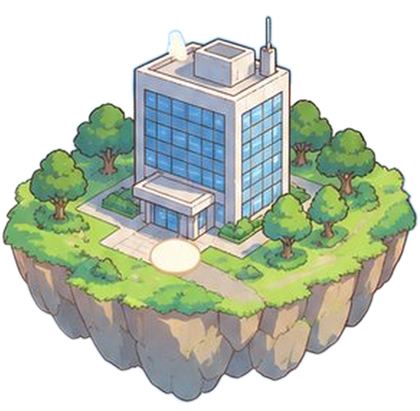
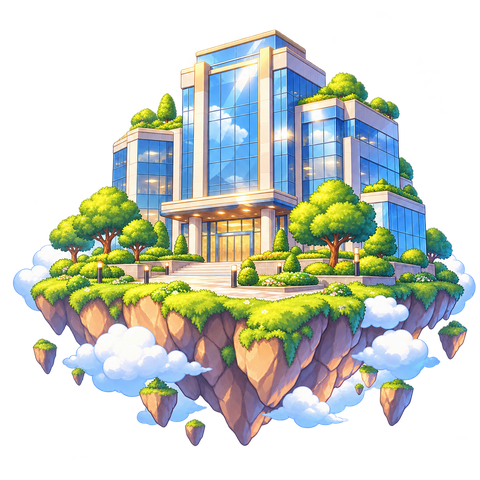
chore: 내부 기능 개선, v2.47.5

diff --git a/game.js b/game.js
@@ -1745,6 +1745,7 @@
   // 원카드 외치기 — 본인이면 안전, 남이면 본인이 1장 먹음
   function ocCall(s, caller, now) {
       var o = s.one; if (!o || s.winner >= 0) return;
+      if (!s.players[caller] || s.players[caller].out) return; // 파산한 사람은 원카드·저격 불가
       if (caller === o.p) ocLog(s, '☝ ' + s.players[o.p].name + ' 원카드!');
       else { var p = s.players[o.p], c = ocDraw1(s); if (c) p.hand.push(c); ocLog(s, '🚨 ' + s.players[caller].name + ' 원카드 저격! ' + p.name + ' +1장'); }
       s.one = null; s.ver++;
@@ -1777,7 +1778,7 @@
       if (s.winner >= 0) return;
       if (s.one) {
           var best = -1, bt = Infinity;
-          for (var k in s.one.ai) if (s.one.ai[k] <= now && s.one.ai[k] < bt) { bt = s.one.ai[k]; best = +k; }
+          for (var k in s.one.ai) if (!s.players[+k].out && s.one.ai[k] <= now && s.one.ai[k] < bt) { bt = s.one.ai[k]; best = +k; }
           if (best >= 0) ocCall(s, best, now);
           else if (now > s.one.until) { s.one = null; s.ver++; }
       }
@@ -1824,10 +1825,12 @@
   async function ocLobbyLoad(){
     try{ const j=await gas({action:'ocLobby'}); if(oc&&oc.mode==='lobby'&&j.success) ocLobbyRender(j.rooms||[]); }catch(e){}
   }
+  // 화면을 통째로 다시 그리면 누르는 사이 버튼이 새로 바뀌어 클릭이 씹힘 — 내용이 같으면 그대로 둠
+  function ocSetBody(html){ const b=el('gmBody'); if(oc&&oc.bodyHtml===html&&b.dataset.oc==='1') return; b.innerHTML=html; b.dataset.oc='1'; if(oc) oc.bodyHtml=html; lockBodySize(); }
   function ocHead(info){ return `<div class="gm-st-head"><b>${ic('skill-onecard.png')}원카드</b><span>${info||''}</span><button type="button" class="gm-exit" tabindex="-1" onmousedown="event.preventDefault()" onclick="gmExitAsk('onecard')">✕ 나가기</button></div>`; }
   function ocLobbyRender(rooms){
     if(!oc||oc.mode!=='lobby') return;
-    el('gmBody').innerHTML=ocHead(`승리 <b>${(acc.ocWins||0).toLocaleString()}</b>회`)+`
+    ocSetBody(ocHead(`승리 <b>${(acc.ocWins||0).toLocaleString()}</b>회`)+`
       <div class="oc-lobby">
         <div class="oc-modes">
           <button type="button" class="oc-mode solo" onclick="ocStartSolo()"><b>🤖 혼자 하기</b><small>컴퓨터 3명과 바로 시작</small></button>
@@ -1838,8 +1841,7 @@
           <span class="oc-room-t"><b>${escHtml(r.title)}</b><small>${r.seats.length}/4명 · 방장 ${escHtml(r.host)}</small></span>
           <button type="button" class="gm-btn primary" onclick="ocJoinRoom('${r.id}')">참가</button></div>`).join(''):'<div class="gm-st-info">지금 열린 방이 없어요. 방을 만들어 동료를 불러보세요!</div>'}</div>
         <div class="oc-rules"><b>규칙</b> 같은 무늬나 숫자 내기 · 공격 2(+2) A(+3) 흑백조커(+5) 컬러조커(+7)는 같거나 센 공격으로 막기 · J 건너뛰기 · Q 방향 바꾸기 · K 한 번 더 · 7 무늬 바꾸기 · 1장 남으면 <b>원카드!</b> · 20장이면 파산</div>
-      </div>`;
-    lockBodySize();
+      </div>`);
   }
   // ---- 혼자 하기
   window.ocStartSolo=function(){
@@ -1878,17 +1880,18 @@
   function ocApply(j){
     lastInput=Date.now(); // 같이 하기 중 다른 사람 차례를 기다리는 동안 창이 흐려지거나 내려가지 않게
     if(j.room) oc.info=j.room;
-    if(j.view){ oc.view=j.view; oc.mode='multi'; ocGameRender(); } else ocRoomRender();
+    if(j.view){ if(oc.view&&j.view.ver<oc.view.ver) return; // 내가 낸 뒤에 도착한 옛 상태는 무시(카드가 손에 되돌아온 것처럼 보이는 문제)
+      oc.view=j.view; oc.mode='multi'; ocGameRender(); } else ocRoomRender();
   }
   function ocRoomRender(){
     const r=oc.info||{seats:[]}, host=oc.seat===0;
-    el('gmBody').innerHTML=ocHead('대기실')+`
+    ocSetBody(ocHead('대기실')+`
       <div class="oc-lobby"><div class="gm-adm-sec">${escHtml(r.title||'방')} <small>${r.seats.length}/4명</small></div>
       <div class="oc-waits">${[0,1,2,3].map(i=>{ const x=r.seats[i];
         return x?`<div class="oc-wait">${ocFaceImg(x.face,'oc-face')}<b>${escHtml(x.nick)}</b><small>${i===0?'방장':'참가'}${i===oc.seat?' · 나':''}</small></div>`
                 :`<div class="oc-wait empty"><span class="gm-face-ph oc-face">🤖</span><b>빈자리</b><small>시작하면 컴퓨터</small></div>`; }).join('')}</div>
       ${host?`<button type="button" class="gm-btn primary" onclick="ocStartRoom()">게임 시작</button>`:`<div class="gm-st-info">방장이 시작하길 기다리는 중…</div>`}
-      <div class="gm-st-info">이 방은 다른 사람의 원카드 화면 "열린 방"에 보여요</div></div>`;
+      <div class="gm-st-info">이 방은 다른 사람의 원카드 화면 "열린 방"에 보여요</div></div>`);
     lockBodySize();
   }
   window.ocStartRoom=async function(){
@@ -1901,7 +1904,7 @@
     if(!oc) return;
     const v=ocCurView(); if(!v) return;
     const me=v.me, n=v.players.length;
-    const sig=v.ver+'|'+(v.one?v.one.p:'-')+'|'+(oc.pick||'');
+    const sig=v.ver+'|'+(v.one?v.one.p:'-')+'|'+(oc.pick||'')+'|'+(oc.sending?oc.sending.action:'');
     if(!force&&sig===oc.lastVer){ ocLiveBits(v); return; }
     oc.lastVer=sig;
     const pos=['bottom','left','top','right'];
@@ -1913,27 +1916,31 @@
     const myTurn=v.turn===me&&v.winner<0, hand=v.hand||[];
     const can=c=>myTurn&&ocCanPlay({pile:[top],suit:v.suit,attack:v.attack,atkPow:v.atkPow},c); // 낼 수 있는 카드 강조(최종 판정은 엔진·서버)
     const w=Math.max(10,Math.min(42,(340-40)/Math.max(1,hand.length-1)));
-    el('gmBody').innerHTML=ocHead(oc.mode==='solo'?'혼자 하기':'같이 하기')+`
-      <div class="oc-table">${seats}
+    const body=el('gmBody');
+    if(force||!el('ocTable')||body.dataset.oc!=='g'){
+      body.innerHTML=ocHead(oc.mode==='solo'?'혼자 하기':'같이 하기')+`<div class="oc-table" id="ocTable"></div><div class="oc-log" id="ocLog"></div><div class="oc-hand" id="ocHand"></div>
+        <div class="oc-btns"><button type="button" class="gm-btn oc-take" id="ocTakeBtn" onclick="ocUiTake()">카드 먹기</button><button type="button" class="gm-btn oc-onebtn" id="ocOneBtn" onclick="ocUiCall()">원카드!</button></div><div id="ocPickBox"></div>`;
+      body.dataset.oc='g'; oc.bodyHtml=null; oc.handSig=null; lockBodySize();
+    }
+    el('ocTable').innerHTML=`${seats}
         <div class="oc-center">
           <div class="oc-deck">${ocCardHtml('BACK')}<small>${v.deck}</small></div>
-          <div class="oc-pile">${ocCardHtml(top)}</div>
+          <div class="oc-pile${top!==oc.lastTop?' new':''}">${ocCardHtml(top)}</div>
           <div class="oc-state">
             <span class="oc-dir">${v.dir>0?'↻':'↺'}</span>
-            ${suitChanged?`<span class="oc-suit ${v.suit==='H'||v.suit==='D'?'red':''}">${OC_SUIT_NAME[v.suit]}</span>`:''}
+            ${suitChanged?`<span class="oc-suit ${v.suit==='H'||v.suit==='D'?'red':''}${v.suit==='*'?' any':''}">${OC_SUIT_NAME[v.suit]}</span>`:''}
             ${v.attack?`<span class="oc-atk">+${v.attack}</span>`:''}
           </div>
         </div>
-        <div class="oc-one" id="ocOne"></div>
-      </div>
-      <div class="oc-log" id="ocLog">${escHtml(v.log[v.log.length-1]||'')}</div>
-      <div class="oc-hand${myTurn?' my':''}">${hand.map((c,i)=>`<span class="oc-slot" style="width:${i===hand.length-1?42:w}px">${ocCardHtml(c,{btn:true,cls:can(c)?' ok':''})}</span>`).join('')}</div>
-      <div class="oc-btns">
-        <button type="button" class="gm-btn oc-take" ${myTurn?'':'disabled'} onclick="ocUiTake()">${v.attack?`💢 ${v.attack}장 먹기`:'카드 먹기'}</button>
-        <button type="button" class="gm-btn oc-onebtn" id="ocOneBtn" onclick="ocUiCall()">원카드!</button>
-      </div>
-      ${oc.pick?`<div class="oc-pick"><b>무늬를 고르세요</b><div>${OC_SUITS.map(su=>`<button type="button" class="${su==='H'||su==='D'?'red':''}" onclick="ocUiSuit('${su}')">${OC_SUIT_NAME[su]}</button>`).join('')}</div></div>`:''}`;
-    lockBodySize();
+        <div class="oc-one" id="ocOne"></div>`;
+    oc.lastTop=top;
+    el('ocLog').textContent=v.log[v.log.length-1]||'';
+    const sending=oc.sending, handEl=el('ocHand'), handSig=myTurn+'|'+(sending?sending.action+sending.card:'')+'|'+hand.map(c=>c+(can(c)?'+':'')).join(',');
+    handEl.classList.toggle('my',myTurn&&!sending); handEl.classList.toggle('busy',!!sending);
+    if(oc.handSig!==handSig){ oc.handSig=handSig; handEl.innerHTML=hand.map((c,i)=>`<span class="oc-slot" style="width:${i===hand.length-1?42:w}px">${ocCardHtml(c,{btn:true,cls:(can(c)?' ok':'')+(sending&&sending.card===c?' sending':'')})}</span>`).join(''); }
+    if(sending) el('ocLog').textContent=sending.action==='ocPlay'?'카드 내는 중…':sending.action==='ocTake'?'카드 먹는 중…':'원카드 외치는 중…';
+    const tb=el('ocTakeBtn'); tb.disabled=!myTurn||v.players[me].out||!!sending; tb.classList.toggle('sending',!!(sending&&sending.action==='ocTake')); tb.textContent=v.attack?`💢 ${v.attack}장 먹기`:'카드 먹기';
+    el('ocPickBox').innerHTML=oc.pick?`<div class="oc-pick"><b>무늬를 고르세요</b><div>${OC_SUITS.map(su=>`<button type="button" class="${su==='H'||su==='D'?'red':''}" onclick="ocUiSuit('${su}')">${OC_SUIT_NAME[su]}</button>`).join('')}</div></div>`:'';
     ocLiveBits(v);
     if(v.winner>=0) ocFinish(v);
   }
@@ -1941,21 +1948,35 @@
   function ocLiveBits(v){
     const b=el('ocOneBtn'), one=el('ocOne'); if(!b) return;
     const me=v.me, o=v.one;
-    b.disabled=!o||v.winner>=0;
+    const out=!v.players[me]||v.players[me].out; // 파산하면 버튼 자체를 끔
+    b.disabled=!o||v.winner>=0||out;
     b.textContent=o?(o.p===me?'☝ 원카드!':'🚨 원카드 저격!'):'원카드!';
     b.classList.toggle('hot',!!o);
     if(one) one.innerHTML=o?`<b>${escHtml(v.players[o.p].name)}</b> 1장!`:'';
     const t=el('ocLog');
-    if(t&&oc.mode==='multi'&&v.turn===me&&v.winner<0) t.textContent=`내 차례 · ${Math.ceil(v.turnLeft/1000)}초 안에 내거나 먹으세요`;
+    if(t&&oc.mode==='multi'&&v.turn===me&&v.winner<0&&!oc.sending) t.textContent=`내 차례 · ${Math.ceil(v.turnLeft/1000)}초 안에 내거나 먹으세요`;
   }
+  // 같이 하기는 서버 응답까지 1~2초 걸림 — 그동안 낸 카드를 띄워 '보내는 중'으로 보여 주고 다른 입력은 막음(여러 번 누르기 방지)
   async function ocSend(action,extra){
     if(oc.mode==='solo') return;
-    try{ const j=await gas(Object.assign({action,room:oc.room,key:oc.key},extra||{})); if(!j.success&&j.error) toast(`⚠ ${j.error}`,1800); if(j.view){ oc.view=j.view; oc.lastVer=-1; ocGameRender(); } }
-    catch(e){ toast('⚠ 서버에 연결하지 못했습니다',2000); }
+    const me=oc;
+    if(action==='ocCall'){ // 원카드 외치기는 빠를수록 좋아서 막지 않음
+      try{ const j=await gas({action,room:me.room,key:me.key}); if(oc===me&&j.view&&!(me.view&&j.view.ver<me.view.ver)){ me.view=j.view; ocGameRender(); } }catch(e){}
+      return; }
+    if(me.sending) return;
+    me.sending={action,card:(extra&&extra.card)||null}; ocGameRender();
+    const guard=setTimeout(()=>{ if(me.sending){ me.sending=null; if(oc===me) ocGameRender(); } },10000);
+    try{ const j=await gas(Object.assign({action,room:me.room,key:me.key},extra||{})); if(oc!==me) return;
+      if(!j.success&&j.error) toast(`⚠ ${j.error}`,1800);
+      if(j.view&&!(me.view&&j.view.ver<me.view.ver)) me.view=j.view; }
+    catch(e){ if(oc===me) toast('⚠ 서버에 연결하지 못했습니다',2000); }
+    finally{ clearTimeout(guard); me.sending=null; if(oc===me&&!me.done) ocGameRender(); }
   }
   window.ocUiPlay=function(c){
     lastInput=Date.now();
-    const v=ocCurView(); if(!v||v.turn!==v.me||v.winner>=0) return;
+    const v=ocCurView(); if(!v||v.turn!==v.me||v.winner>=0||oc.sending) return;
+    if(!(v.hand||[]).includes(c)) return;
+    if(!ocCanPlay({pile:[v.top],suit:v.suit,attack:v.attack,atkPow:v.atkPow},c)){ toast(v.attack?`⚠ +${v.attack} 공격은 같거나 센 공격 카드로만 막을 수 있어요`:'⚠ 지금은 낼 수 없는 카드예요',1500); return; } // 서버까지 안 가고 바로 알려 줌
     if(ocRank(c)==='7'&&!v.attack){ oc.pick=c; ocGameRender(true); return; } // 7은 무늬 고르기
     ocDoPlay(c,'');
   };
@@ -1964,7 +1985,7 @@
     if(oc.mode==='solo'){ const err=ocPlay(oc.s,oc.me,c,su,Date.now()); if(err) toast(`⚠ ${err}`,1500); ocGameRender(true); }
     else ocSend('ocPlay',{card:c,suit:su});
   }
-  window.ocUiTake=function(){ lastInput=Date.now(); if(oc.mode==='solo'){ ocTake(oc.s,oc.me,Date.now()); ocGameRender(true); } else ocSend('ocTake'); };
+  window.ocUiTake=function(){ lastInput=Date.now(); if(oc.sending) return; if(oc.mode==='solo'){ ocTake(oc.s,oc.me,Date.now()); ocGameRender(true); } else ocSend('ocTake'); };
   window.ocUiCall=function(){ lastInput=Date.now(); if(oc.mode==='solo'){ ocCall(oc.s,oc.me,Date.now()); ocGameRender(true); } else ocSend('ocCall'); };
   // 끝 — 순위·남은 카드로 점수 → 경험치·추천서
   function ocFinish(v){
@@ -1988,7 +2009,7 @@
     if(rank===1) fxPop('fx-confetti',{cls:'big',ms:1500,x:50});
   }
   window.gmShowOneCard=gmShowOneCard;
-  if(window.__GM_TEST) window.__oc=()=>oc; // 자동 테스트에서만
+  if(window.__GM_TEST){ window.__oc=()=>oc; window.__ocEng={ocView,ocPlay,ocTake,ocCanPlay}; } // 자동 테스트에서만
   window.gmOneCardExit=function(){
     if(oc&&(oc.mode==='room'||oc.mode==='multi')&&!oc.done) gas({action:'ocLeave',room:oc.room,key:oc.key}).catch(()=>{});
     ocStop(); oc=null; gmShowWorld();
@@ -2010,7 +2031,7 @@
     const W=box.clientWidth, H=box.clientHeight, cx=W/2, cy=H*0.5, unit=Math.min(W,H*0.85);
     const svg=box.querySelector('.gm-orbits'); svg.setAttribute('viewBox',`0 0 ${W} ${H}`);
     svg.innerHTML=WORLD_ORBITS.map(([rx,ry],i)=>`<ellipse class="o${i}" cx="${cx}" cy="${cy}" rx="${rx*W}" ry="${ry*H}"/>`).join('');
-    const hq=box.querySelector('.gm-hq'), hw=Math.round(unit*0.31); hq.style.width=hw+'px'; hq.style.left=(cx-hw/2)+'px'; hq.style.top=(cy-hw*0.5)+'px';
+    const hq=box.querySelector('.gm-hq'), hw=Math.round(unit*0.36); hq.style.width=hw+'px'; hq.style.left=(cx-hw/2)+'px'; hq.style.top=(cy-hw*0.5)+'px';
     box.querySelectorAll('.gm-isle').forEach(b=>{ const w=WORLD[+b.dataset.i], [rx,ry]=WORLD_ORBITS[w.orb[0]], t=w.orb[1]*Math.PI/180;
       const x=cx+Math.cos(t)*rx*W, y=cy+Math.sin(t)*ry*H, iw=Math.round(unit*0.27*(w.size||1));
       b.style.width=iw+'px'; b.style.left=(x-iw/2)+'px'; b.style.top=(y-iw*(w.ar||1)*0.5)+'px'; });

diff --git a/style.css b/style.css
@@ -2102,7 +2102,8 @@ body.checklist-page-active { padding-bottom:46px; }
 .oc-fan i:first-child { margin-left:0; }
 .oc-center { position:absolute; left:50%; top:46%; transform:translate(-50%,-50%); display:flex; align-items:center; gap:12px; }
 .oc-deck { position:relative; } .oc-deck small { position:absolute; bottom:-14px; left:0; right:0; text-align:center; color:#fff; font-size:10px; opacity:0.8; }
-.oc-pile .oc-card { transform:rotate(-4deg) scale(1.08); box-shadow:0 4px 10px rgba(0,0,0,0.5); animation:ocDrop 0.25s ease-out; }
+.oc-pile .oc-card { transform:rotate(-4deg) scale(1.08); box-shadow:0 4px 10px rgba(0,0,0,0.5); }
+.oc-pile.new .oc-card { animation:ocDrop 0.25s ease-out; }
 @keyframes ocDrop { from { transform:translateY(-30px) rotate(-14deg) scale(1.2); opacity:0; } }
 .oc-state { display:flex; flex-direction:column; align-items:center; gap:4px; }
 .oc-dir { font-size:22px; color:rgba(255,255,255,0.75); line-height:1; }
@@ -2160,3 +2161,11 @@ body.checklist-page-active { padding-bottom:46px; }
 .gm-hq .gm-isle-label { margin-top:-12px; background:rgba(255,255,255,0.92); box-shadow:0 2px 6px rgba(0,40,80,0.2); }
 .gm-hq .gm-isle-label b { font-size:11.5px; color:#222; } .gm-hq .gm-isle-label small { font-size:10px; }
 .gm-world .gm-isle { z-index:2; }
+.oc-suit { white-space:nowrap; }
+.oc-suit.any { font-size:11px; font-weight:800; padding:4px 8px; line-height:1.2; }
+.oc-onebtn:disabled { opacity:0.45; cursor:default; }
+/* 같이 하기 — 서버로 보내는 중 */
+.oc-hand.busy button.oc-card { opacity:0.4; cursor:progress; pointer-events:none; }
+.oc-hand.busy button.oc-card.sending { opacity:1; transform:translateY(-22px) scale(1.06); box-shadow:0 0 0 2px #69f0ae, 0 0 16px rgba(105,240,174,0.8); animation:ocSending 0.6s ease-in-out infinite alternate; }
+@keyframes ocSending { to { transform:translateY(-26px) scale(1.06); box-shadow:0 0 0 2px #69f0ae, 0 0 24px rgba(105,240,174,1); } }
+.oc-take.sending { cursor:progress; }

diff --git a/googleDrive.js b/googleDrive.js
@@ -2057,6 +2057,7 @@ function ocTake(s, pi, now) {
 // 원카드 외치기 — 본인이면 안전, 남이면 본인이 1장 먹음
 function ocCall(s, caller, now) {
     var o = s.one; if (!o || s.winner >= 0) return;
+    if (!s.players[caller] || s.players[caller].out) return; // 파산한 사람은 원카드·저격 불가
     if (caller === o.p) ocLog(s, '☝ ' + s.players[o.p].name + ' 원카드!');
     else { var p = s.players[o.p], c = ocDraw1(s); if (c) p.hand.push(c); ocLog(s, '🚨 ' + s.players[caller].name + ' 원카드 저격! ' + p.name + ' +1장'); }
     s.one = null; s.ver++;
@@ -2089,7 +2090,7 @@ function ocTick(s, now, timeoutMs) {
     if (s.winner >= 0) return;
     if (s.one) {
         var best = -1, bt = Infinity;
-        for (var k in s.one.ai) if (s.one.ai[k] <= now && s.one.ai[k] < bt) { bt = s.one.ai[k]; best = +k; }
+        for (var k in s.one.ai) if (!s.players[+k].out && s.one.ai[k] <= now && s.one.ai[k] < bt) { bt = s.one.ai[k]; best = +k; }
         if (best >= 0) ocCall(s, best, now);
         else if (now > s.one.until) { s.one = null; s.ver++; }
     }

diff --git a/index.html b/index.html
@@ -21,7 +21,7 @@
      한글 본문은 Pretendard 유지 (Geist엔 한글 글리프가 없음) -->
 <link rel="stylesheet" href="https://fonts.googleapis.com/css2?family=Geist:wght@400;500&family=Geist+Mono:wght@400;500&display=swap"/>
 <link rel="stylesheet" href="https://fonts.googleapis.com/icon?family=Material+Icons+Round"/>
-<link rel="stylesheet" href="style.css?v=2.47.4"/>
+<link rel="stylesheet" href="style.css?v=2.47.5"/>
 <script defer src="https://cdn.jsdelivr.net/npm/chart.js@4.4.4/dist/chart.umd.min.js"></script>
 <script defer src="https://cdn.jsdelivr.net/npm/exceljs@4.4.0/dist/exceljs.min.js"></script>
 </head>
@@ -1041,8 +1041,8 @@
   <span class="footer-date" id="footerDate"></span>
 </div>
 
-<script defer src="script.js?v=2.47.4"></script>
+<script defer src="script.js?v=2.47.5"></script>
 <!-- 숨은 미니 게임 (푸터 AIRMAX 3번 클릭) -->
-<script defer src="game.js?v=2.47.4"></script>
+<script defer src="game.js?v=2.47.5"></script>
 </body>
 </html>

diff --git a/script.js b/script.js
@@ -1,5 +1,5 @@
 /* ===== 버전 ===== */
-const APP_VERSION = 'v2.47.4';
+const APP_VERSION = 'v2.47.5';
 const APP_DATE    = '2026.10.23';
 
 /* ===== 설정 ===== */
